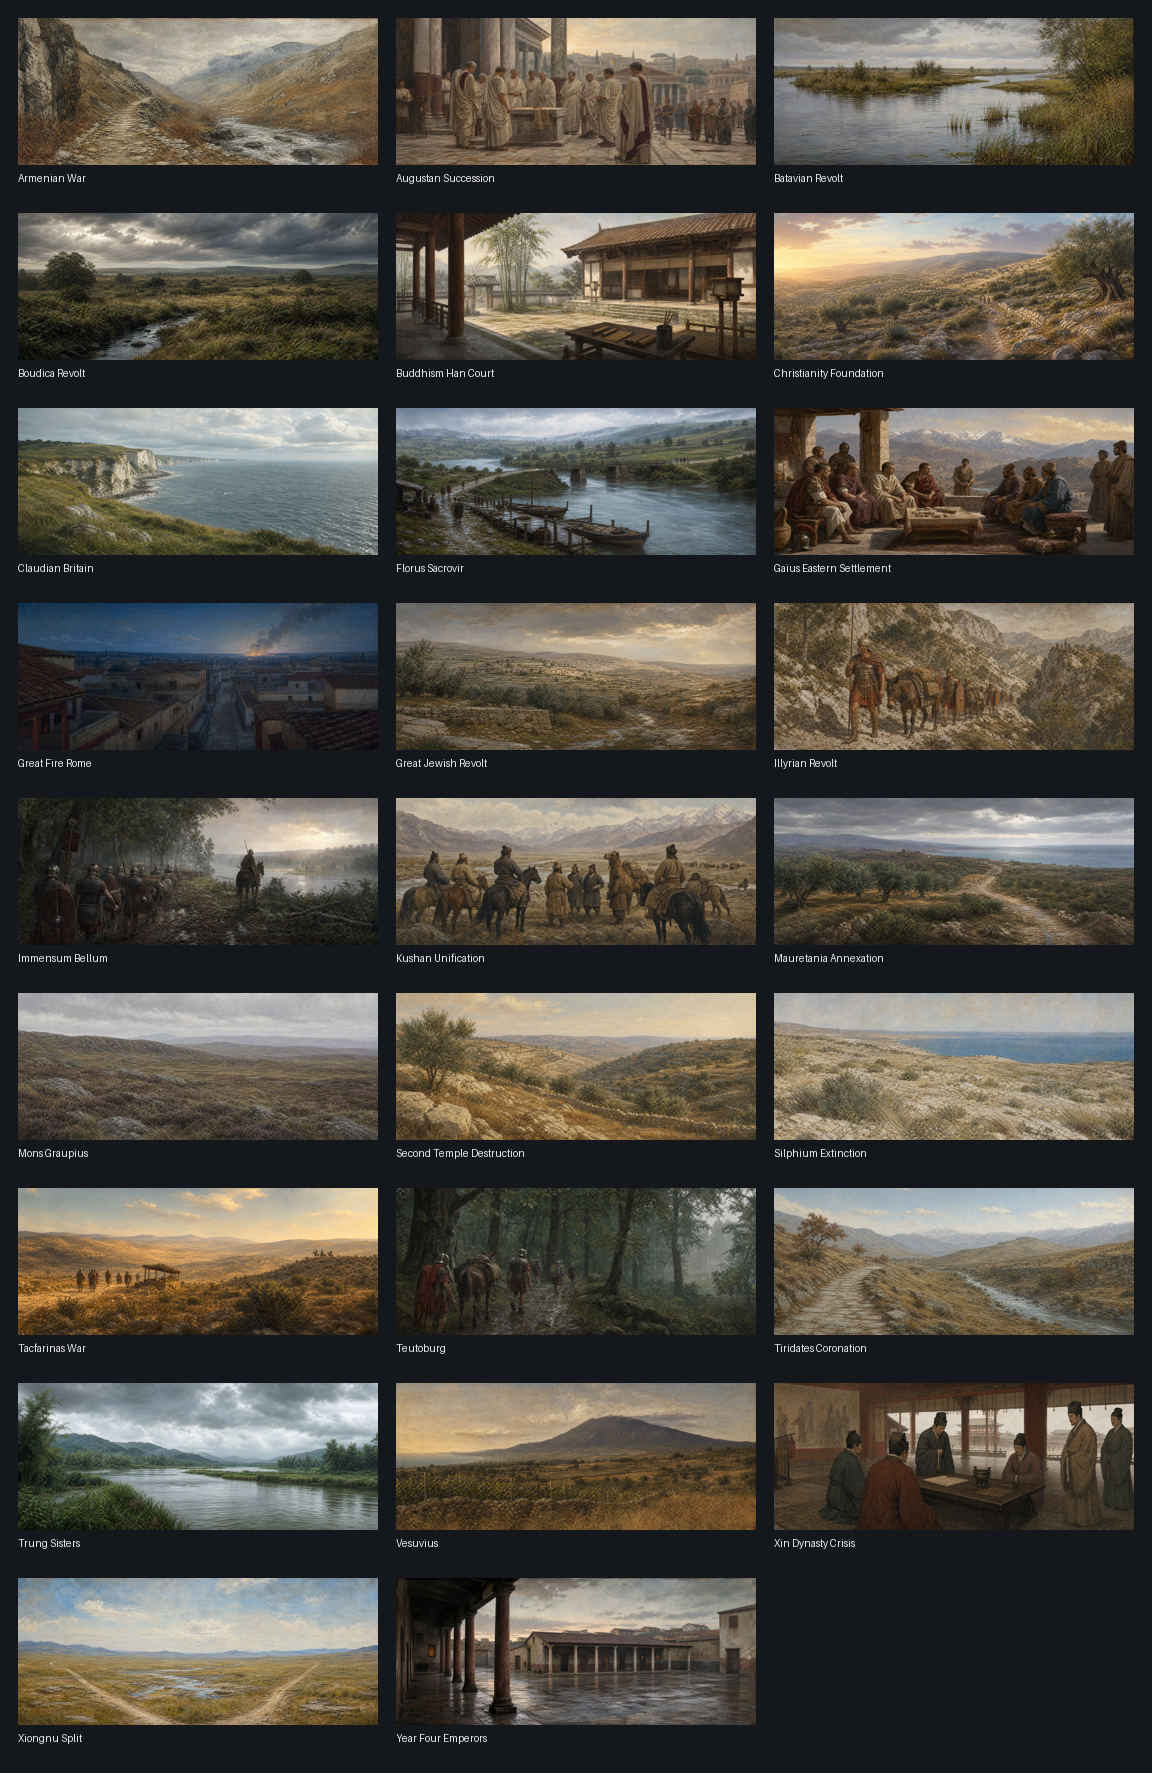
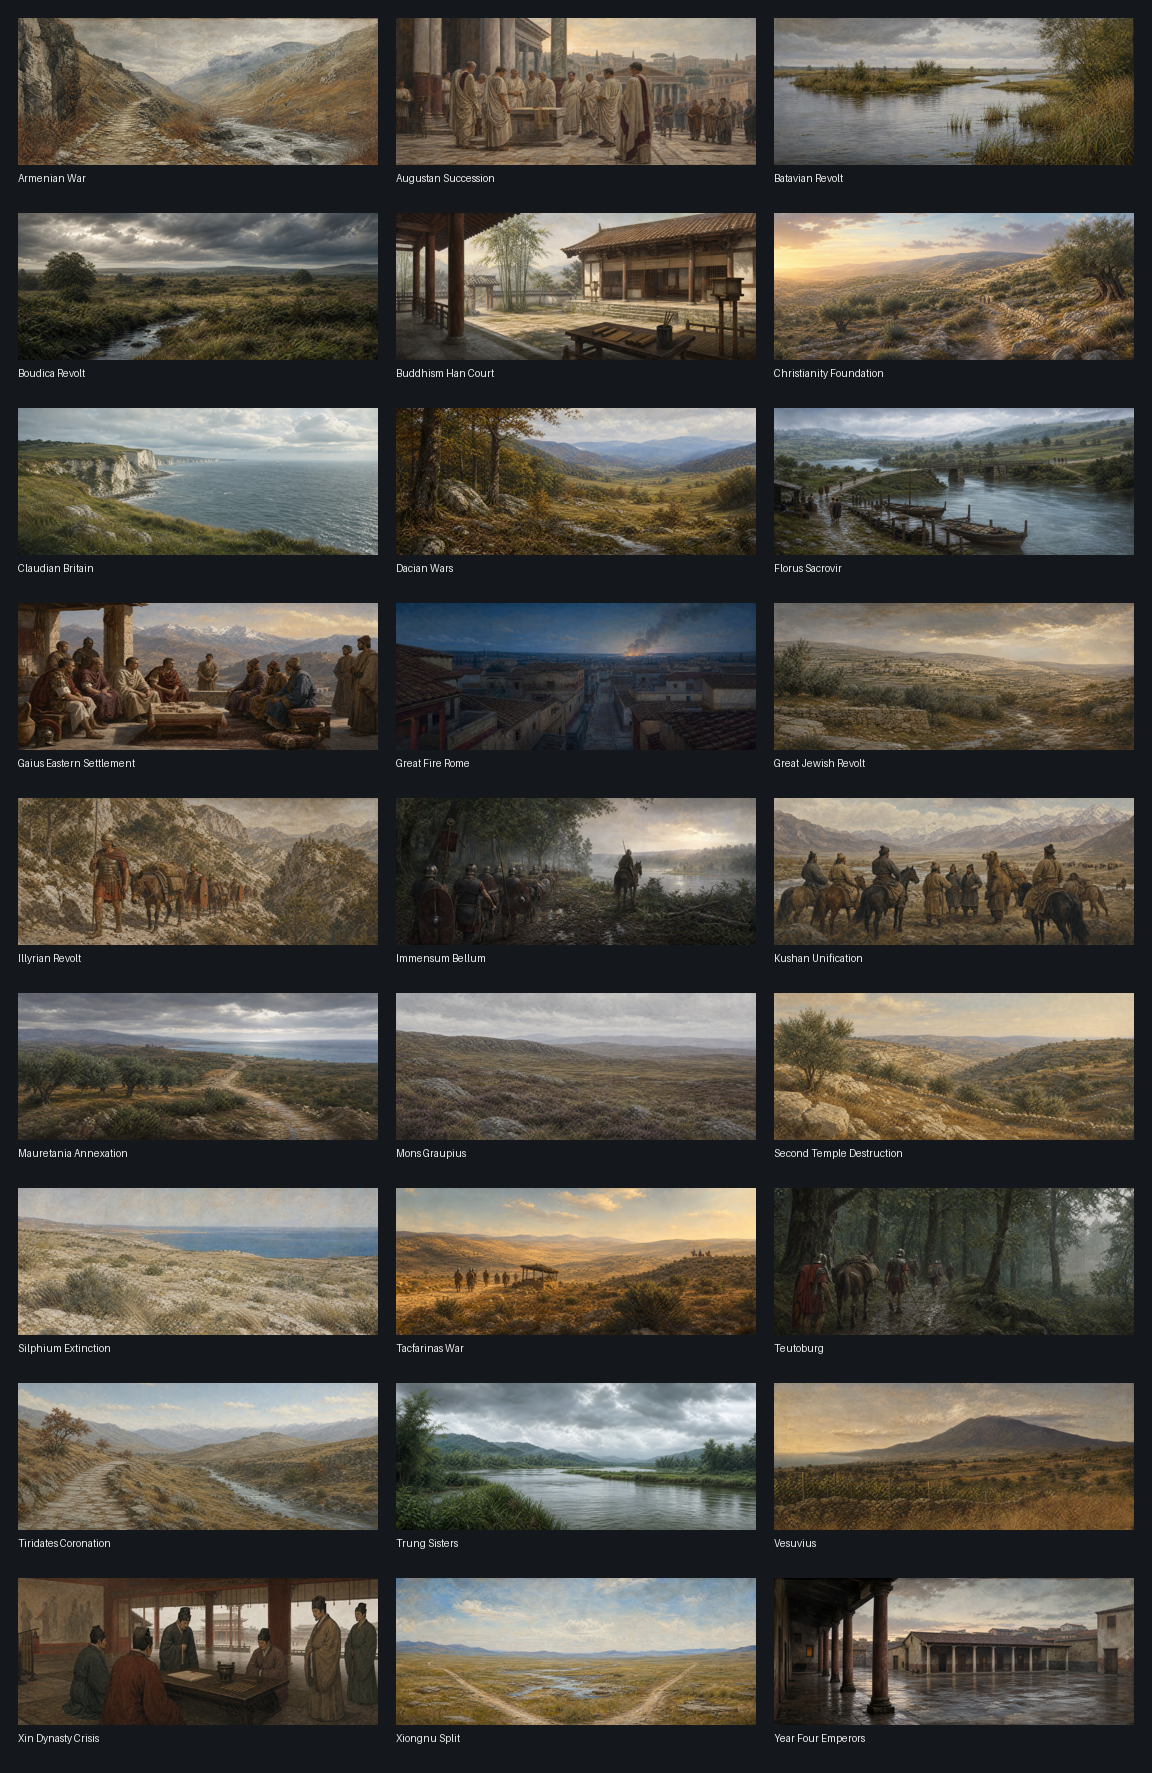
docs(m11): record Dacian wars art

diff --git a/docs/m11/contact_sheet.html b/docs/m11/contact_sheet.html
@@ -7,6 +7,7 @@
     <figure><img src="../../assets_queue/generated/antq_buddhism_han_court_1080x440.png" alt="Buddhism Han Court"><figcaption>Buddhism Han Court</figcaption></figure>
     <figure><img src="../../assets_queue/generated/antq_christianity_foundation_1080x440.png" alt="Christianity Foundation"><figcaption>Christianity Foundation</figcaption></figure>
     <figure><img src="../../assets_queue/generated/antq_claudian_britain_1080x440.png" alt="Claudian Britain"><figcaption>Claudian Britain</figcaption></figure>
+    <figure><img src="../../assets_queue/generated/antq_dacian_wars_1080x440.png" alt="Dacian Wars"><figcaption>Dacian Wars</figcaption></figure>
     <figure><img src="../../assets_queue/generated/antq_florus_sacrovir_1080x440.png" alt="Florus Sacrovir"><figcaption>Florus Sacrovir</figcaption></figure>
     <figure><img src="../../assets_queue/generated/antq_gaius_eastern_settlement_1080x440.png" alt="Gaius Eastern Settlement"><figcaption>Gaius Eastern Settlement</figcaption></figure>
     <figure><img src="../../assets_queue/generated/antq_great_fire_rome_1080x440.png" alt="Great Fire Rome"><figcaption>Great Fire Rome</figcaption></figure>

diff --git a/docs/TODO.md b/docs/TODO.md
@@ -213,7 +213,8 @@ after `make full` and its autonomous driver report are green.
 - [x] Generate, dimension-check, round-trip review, wire, and smoke-test the AD 79 Vesuvius event illustration through a non-literal Campanian volcanic-landscape treatment.
 - [x] Generate, dimension-check, round-trip review, wire, and smoke-test the AD 70 Second Temple transformation event illustration through a landscape-only Judean environmental-context treatment.
 - [x] Generate, dimension-check, round-trip review, wire, and smoke-test the AD 83 Mons Graupius event illustration through a landscape-only Caledonian upland-context treatment.
-- [x] Render and review the maintained M11 event-art contact sheet (26 retained 1080x440 masters).
+- [x] Generate, dimension-check, round-trip review, wire, and smoke-test the AD 85 Dacian Wars event illustration through a non-literal Carpathian foothill-context treatment.
+- [x] Render and review the maintained M11 event-art contact sheet (27 retained 1080x440 masters).
 - [ ] Reach event/decision targets; finish flags, icons, illustrations, loading/age art, localization, glossary, and credits.
 - [ ] Remove common-screen placeholders; run milestone gate and tag `M11-done`.
 

diff --git a/docs/m11/M11_DACIAN_WARS_ART.md b/docs/m11/M11_DACIAN_WARS_ART.md
@@ -1,0 +1,26 @@
+# M11 Dacian Wars illustration
+
+## Asset and scope
+
+The retained source is
+`assets_queue/generated_sources/antq_dacian_wars_source.png`; its exact
+1080x440 derivative is `assets_queue/generated/antq_dacian_wars_1080x440.png`.
+The game-facing BC7 DDS is
+`main_menu/gfx/interface/illustrations/event/antq_dacian_wars.dds`.
+
+The text-free image is deliberately non-literal Carpathian environmental
+context: mixed autumn woodland, rounded rock outcrops, a small clear stream,
+an open valley, and distant blue foothills. It identifies no war, battle,
+commander, capital, route, fortification, Roman or Dacian material, person,
+animal, action, date, or outcome. Review excluded people, military material,
+settlement, roads, later architecture, readable writing, labels, and logos.
+
+## Engine verification
+
+`EVENT_IMAGES` in `tools/m10_history.py` owns the `antq_m10.1026` image link.
+The texture follows the inspected 1080x440 BC7 country-event form, was
+round-tripped to PNG for visual review, and passed `make validate` plus
+enabled-mod `make smoke` with zero new error-log lines.
+
+Sources: ANTIQVITAS master plan sections 8.1, 9, and 20; local EU5
+country-event image contract.

diff --git a/docs/ASSUMPTIONS.md b/docs/ASSUMPTIONS.md
@@ -1,5 +1,15 @@
 # Historical Assumptions
 
+## 2026-07-20 - Dacian-Wars art is non-literal Carpathian context
+
+The image is a quiet Carpathian foothill landscape of mixed autumn woodland,
+rounded rock, a small stream, an open valley, and distant hills. It identifies
+no war, battle, commander, capital, route, fortification, Roman or Dacian
+material, person, animal, action, date, or outcome. It deliberately excludes
+military material, settlement, roads, and later architecture; it is not a
+reconstruction of the AD 85 wars. Sources weighed: P8.1; plan sections 9 and
+20. [secure regional context; illustrative composition only]
+
 ## 2026-07-20 - Mons-Graupius art is landscape-only Caledonian context
 
 The image is an unoccupied Caledonian upland of heather, coarse grass, granite,

diff --git a/docs/PROGRESS.md b/docs/PROGRESS.md
@@ -1,5 +1,16 @@
 # Progress
 
+## 2026-07-20 - M11 Dacian Wars event illustration
+
+- Added a reviewed, non-literal Carpathian foothill-context image to the AD 85
+  Dacian Wars current through the generated event-image contract.
+- The engine-sized BC7 texture was round-trip inspected; `make validate` and
+  enabled-mod smoke are green with zero new error-log lines. The maintained
+  M11 contact sheet now has twenty-seven retained event masters.
+
+Next: continue the independent M11 art queue and source-led M5/M6 audit while
+runtime-gated milestone checks remain deferred.
+
 ## 2026-07-20 - M11 Mons Graupius event illustration
 
 - Added a reviewed, landscape-only Caledonian upland-context image to the AD

diff --git a/docs/m11/M11_CONTACT_SHEET.md b/docs/m11/M11_CONTACT_SHEET.md
@@ -5,7 +5,7 @@ every retained `assets_queue/generated/antq_*_1080x440.png` master. The HTML
 is the browsable review surface; the PNG is the compact visual record suitable
 for inclusion in the M11 milestone report.
 
-The current review contains twenty-six 1080x440 event masters. It was inspected for
+The current review contains twenty-seven 1080x440 event masters. It was inspected for
 omissions, clipped labels, incorrect aspect ratios, readable text, watermarks,
 or obvious anachronistic material. Individual asset records retain the more
 specific historical-scope findings and engine checks.
